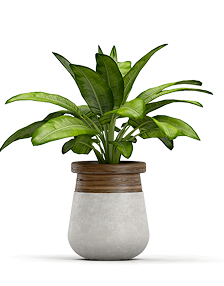
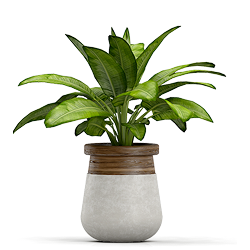
upadate wrap

Changed region(s): [[0.0, 0.084, 0.9688, 0.98]]

diff --git a/Lesson_7/index.html b/Lesson_7/index.html
@@ -101,122 +101,105 @@
         <!-- catalog -->
 
         <div class="catalog">
-          <div class="catalog-row">
-            <div class="cart">
-              <div class="cart_img">
-                <img src="./images/image 1.png" alt="image 1">
-              </div>
-              <div class="info-cart">
-                <span class="name">Barberton Daisy</span>
-                <span class="price">$119.00</span>
-              </div>
+          <div class="cart">
+            <div class="cart_img">
+              <img src="./images/image 1.png" alt="image 1" />
             </div>
-            <div class="cart">
-              <div class="cart_img">
-                <img src="./images/image 2.png" alt="image 2">
-              </div>
-              <div class="info-cart">
-                <span class="name">Angel Wing Begonia</span>
-                <span class="price">$169.00</span>
-              </div>
-            </div>
-            <div class="cart">
-              <div class="cart_img">
-                <img src="./images/image 3.png" alt="image 3">
-              </div>
-              <div class="info-cart">
-                <span class="name">African Violet</span>
-                <span class="price">$199.00</span>
-              </div>
+            <div class="info-cart">
+              <span class="name">Barberton Daisy</span>
+              <span class="price">$119.00</span>
             </div>
           </div>
-          <div class="catalog-row">
-            <div class="cart">
-              <div class="cart_img">
-                <img id="png" src="./images/image 4.png" alt="image 4">
-              </div>
-              <div class="info-cart">
-                <span class="name">Beach Spider Lily</span>
-                <span class="price">$129.00</span>
-              </div>
+          <div class="cart">
+            <div class="cart_img">
+              <img src="./images/image 2.png" alt="image 2" />
             </div>
-            <div class="cart">
-              <div class="cart_img">
-                <img  src="./images/image 5.png" alt="image 5">
-              </div>
-              <div class="info-cart">
-                <span class="name">Blushing Bromeliad</span>
-                <span class="price">$139.00</span>
-              </div>
-            </div>
-            <div class="cart">
-              <div class="cart_img">
-                <img src="./images/image 6.png" alt="image 6">
-              </div>
-              <div class="info-cart">
-                <span class="name">Aluminum Plant</span>
-                <span class="price">$119.00</span>
-              </div>
+            <div class="info-cart">
+              <span class="name">Angel Wing Begonia</span>
+              <span class="price">$169.00</span>
             </div>
           </div>
-          <div class="catalog-row">
-            <div class="cart">
-              <div class="cart_img">
-                <img id="png" src="./images/image 7.png" alt="image 7">
-              </div>
-              <div class="info-cart">
-                <span class="name">Bird's Nest Fern</span>
-                <span class="price">$99.00</span>
-              </div>
+          <div class="cart">
+            <div class="cart_img">
+              <img src="./images/image 3.png" alt="image 3" />
             </div>
-            <div class="cart">
-              <div class="cart_img">
-                <img  src="./images/image 8.png" alt="image 8">
-              </div>
-              <div class="info-cart">
-                <span class="name">Broadleaf Lady Palm</span>
-                <span class="price">$119.00</span>
-              </div>
+            <div class="info-cart">
+              <span class="name">African Violet</span>
+              <span class="price">$199.00</span>
             </div>
-            <div class="cart">
-              <div class="cart_img">
-                <img src="./images/image 9.png" alt="image 9">
-              </div>
-              <div class="info-cart">
-                <span class="name">Chinese Evergreen</span>
-                <span class="price">$119.00</span>
-              </div>
+          </div>
+
+          <div class="cart">
+            <div class="cart_img">
+              <img src="./images/image 4.png" alt="image 4" />
+            </div>
+            <div class="info-cart">
+              <span class="name">Beach Spider Lily</span>
+              <span class="price">$129.00</span>
+            </div>
+          </div>
+          <div class="cart">
+            <div class="cart_img">
+              <img src="./images/image 5.png" alt="image 5" />
+            </div>
+            <div class="info-cart">
+              <span class="name">Blushing Bromeliad</span>
+              <span class="price">$139.00</span>
+            </div>
+          </div>
+          <div class="cart">
+            <div class="cart_img">
+              <img src="./images/image 6.png" alt="image 6" />
+            </div>
+            <div class="info-cart">
+              <span class="name">Aluminum Plant</span>
+              <span class="price">$119.00</span>
+            </div>
+          </div>
+
+          <div class="cart">
+            <div class="cart_img">
+              <img id="png" src="./images/image 7.png" alt="image 7" />
+            </div>
+            <div class="info-cart">
+              <span class="name">Bird's Nest Fern</span>
+              <span class="price">$99.00</span>
+            </div>
+          </div>
+          <div class="cart">
+            <div class="cart_img">
+              <img src="./images/image 8.png" alt="image 8" />
+            </div>
+            <div class="info-cart">
+              <span class="name">Broadleaf Lady Palm</span>
+              <span class="price">$119.00</span>
+            </div>
+          </div>
+          <div class="cart">
+            <div class="cart_img">
+              <img src="./images/image 9.png" alt="image 9" />
+            </div>
+            <div class="info-cart">
+              <span class="name">Chinese Evergreen</span>
+              <span class="price">$119.00</span>
             </div>
           </div>
         </div>
 
-         <!-- Navigation -->
+        <!-- Navigation -->
 
-    <div class="navigation">
-      <ul>
-        <li>
-          1
-        </li>
-        <li>
-          2
-        </li>
-        <li>
-          3
-        </li>
-        <li>
-          4
-        </li>
-        <li>
-          
-            <img src="./images/Arrow - Right 2.svg"alt="icon">
-          
-        </li>
-      </ul>
-      
-    </div>
+        <div class="navigation">
+          <ul>
+            <li>1</li>
+            <li>2</li>
+            <li>3</li>
+            <li>4</li>
+            <li>
+              <img src="./images/Arrow - Right 2.svg" alt="icon" />
+            </li>
+          </ul>
+        </div>
       </div>
-    </div >
-
-   
+    </div>
   </body>
 </html>

diff --git a/Lesson_7/css/style.css b/Lesson_7/css/style.css
@@ -215,19 +215,13 @@
 
 .catalog {
   display: flex;
-  flex-direction: column;
-  justify-content: space-between;
-  gap: 70px;
-  margin-bottom: 90px;
-}
-
-.catalog-row {
-  display: flex;
-  justify-content: space-between;
-  align-content: stretch;
-  /* align-items: end; */
-  gap: 3%;
+  flex-flow: row wrap;
+  justify-content: flex-start;
+  align-items: stretch;
+  
   width: 100%;
+  gap: 30px 70px;
+  margin-bottom: 90px;
 }
 
 /* cart */
@@ -237,21 +231,25 @@
   flex-direction: column;
   justify-content: end;
   width: 100%;
+  height: auto;
+  max-width: 256px;
+  max-height: 350px;
   /* border: 1px solid black; */
 }
 
 .cart_img {
   display: flex;
   flex-grow: 1;
-  max-width: 100%;
-  max-height: 300px;
+  width: 100%;
+  height: 100%;
   padding: 31px 9px;
   background-color: #fbfbfb;
 }
 
 .cart_img img {
   width: 100%;
-  height: auto;
+  height: 100%;
+
   object-fit: contain;
   background-color: url(<path-to-image>) lightgray 50% / cover no-repeat;
   mix-blend-mode: multiply;
@@ -287,7 +285,6 @@
 .navigation {
   display: flex;
   justify-content: end;
-
 }
 
 .navigation ul {
